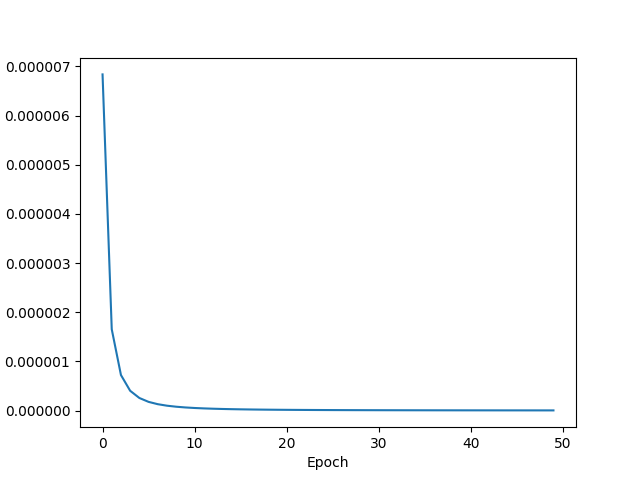
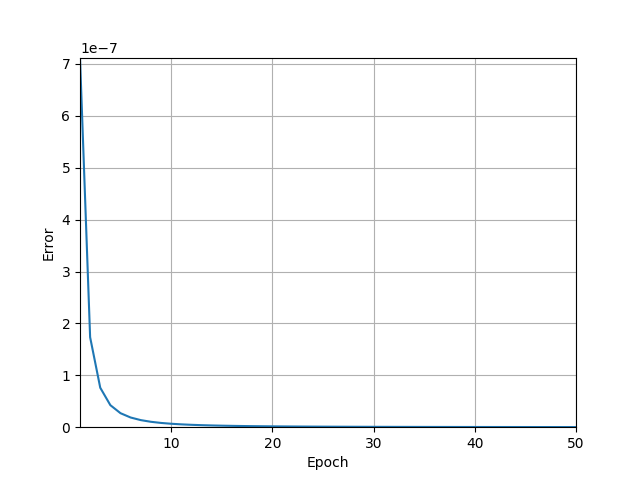
edited

diff --git a/tugas_1.py b/tugas_1.py
@@ -15,7 +15,7 @@ class Classifier:
         self.__predictions = []
         self.__errors = []
     
-    def train(self, train_data, train_fact, epoch=100, hidden_layer=[0], output_layer=1, learning_rate=0.1):
+    def train(self, train_data, train_fact, epoch=100, learning_rate=0.1, hidden_layer=[0], output_layer=1):
         self.__train.data = train_data
         self.__train.fact = train_fact
         self.__data_sample = self.__train.data[0]
@@ -28,9 +28,12 @@ class Classifier:
         print('Training Finish')
 
     def plot(self):
-        plt.plot(self.__errors)
         plt.xlabel('Epoch')
         plt.ylabel('Error')
+        plt.xlim(1, len(self.__errors))
+        plt.ylim(0, max(self.__errors))
+        plt.plot(range(1,len(self.__errors) + 1), self.__errors)
+        plt.grid(True)
         plt.show()
 
     # def data_sample(self):
@@ -47,6 +50,9 @@ class Classifier:
 
     # def get_prediction(self):
     #     return self.__predictions
+
+    def get_errors(self):
+        return self.__errors
 
     def __training(self):
         for _ in range(self.__epoch):
@@ -157,7 +163,8 @@ def main():
     train.data, train.fact = read_data(file_path)
     # Classifier
     clf = Classifier()
-    clf.train(train.data, train.fact, epoch=50, hidden_layer=[2, 3, 2])
+    clf.train(train.data, train.fact, epoch=50, learning_rate=0.3, hidden_layer=[2, 3, 2])
+    print(clf.get_errors())
     clf.plot()
 
 if __name__ == "__main__":
